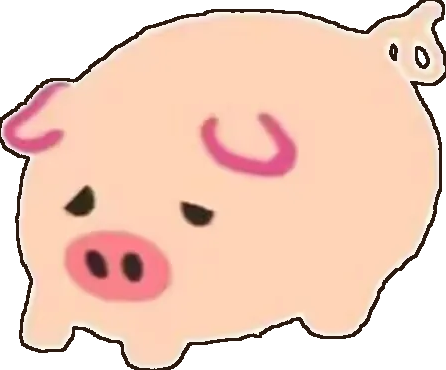
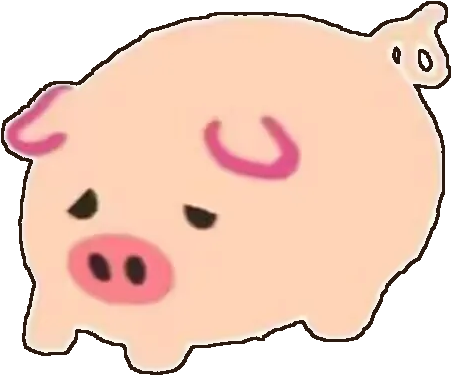
fix(assets): pig-1355 按规格重制并撤销矢量化；描边留边距

diff --git a/lib/index.js b/lib/index.js
@@ -31,7 +31,7 @@ import {
 export const name = 'dsh-pighub';
 export const inject = ['tools'];
 
-const VERSION = '0.3.3';
+const VERSION = '0.3.4';
 const ROUTE = '/pighub';
 
 /** 冻结库读一次缓存一分钟：它在包内不会变，但换版本/热重载时又能及时反映。 */

diff --git a/CHANGELOG.md b/CHANGELOG.md
@@ -3,6 +3,14 @@
 本项目遵循 [Semantic Versioning](https://semver.org/lang/zh-CN/)；每条记录只写「对使用者可见的变化」，
 内部重构不单列。README 只描述项目整体，**版本相关内容一律记在这里**。
 
+## [0.3.4] — 2026-11-12（未发布）
+
+### Fixed
+
+- ~pig-1355~（怪猪）：按 subagent 规格裁到猪身（392×373，与实测 bbox 完全一致），两个 erase 框删掉右上淡色飘带（框内猪像素 0/0，覆盖 trim 内全部 526px）。
+- **撤销该图的矢量化**：源图是纯填充无描线，220px 描摹会把眼睛/腮红/描边压成色块碎片（目视确认后改为 PNG）。判定里记录了原因。
+- 修掉一个真问题：紧框会裁掉描边环——crop 的 pad 改为「描边宽度 + 1」，实测 1354 环 6,056px、1355 环 4,737px 都在。
+
 ## [0.3.3] — 2026-11-12（未发布）
 
 ### Fixed
